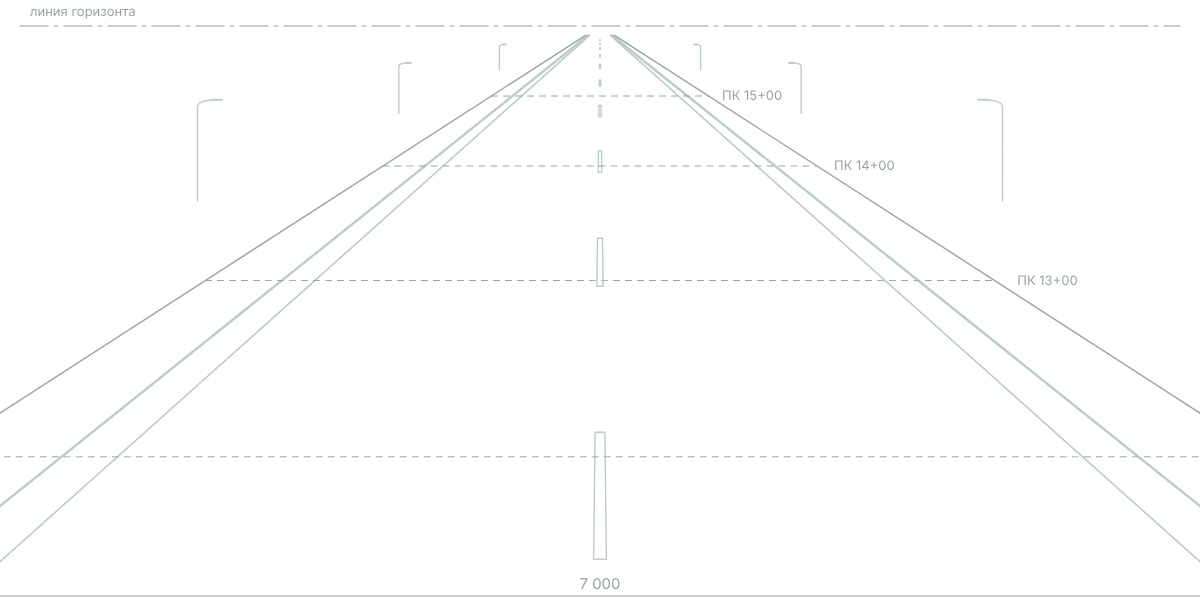
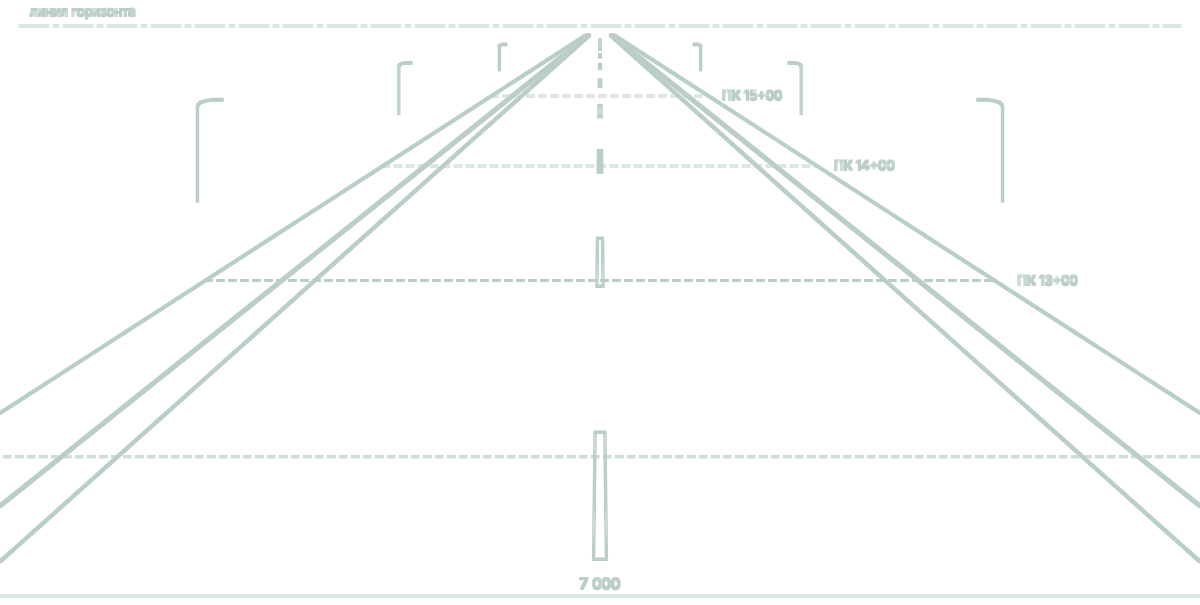
Асфальт: фон ярче и чётче
Claude-Session: https://claude.ai/code/session_01482EFEJNV4dMhKhPG7opTp

diff --git a/calc.html b/calc.html
@@ -15,12 +15,12 @@
 <link rel="icon" href="/favicon.svg" type="image/svg+xml">
 <link rel="alternate icon" href="/favicon.ico" sizes="32x32">
 <link rel="apple-touch-icon" href="/apple-touch-icon.png">
-<link rel="stylesheet" href="assets/masks.css?v=1119b">
-<link rel="stylesheet" href="assets/style.css?v=1119b">
-<script src="assets/calc-data.js?v=1119b"></script>
-<script src="assets/calc-icons.js?v=1119b"></script>
-<script src="assets/app.js?v=1119b" defer></script>
-<script src="assets/calc.js?v=1119b" defer></script>
+<link rel="stylesheet" href="assets/masks.css?v=1119c">
+<link rel="stylesheet" href="assets/style.css?v=1119c">
+<script src="assets/calc-data.js?v=1119c"></script>
+<script src="assets/calc-icons.js?v=1119c"></script>
+<script src="assets/app.js?v=1119c" defer></script>
+<script src="assets/calc.js?v=1119c" defer></script>
 </head>
 <body>
 <div class="page">

diff --git a/dorogi.html b/dorogi.html
@@ -17,9 +17,9 @@
 <link rel="icon" href="/favicon.svg" type="image/svg+xml">
 <link rel="alternate icon" href="/favicon.ico" sizes="32x32">
 <link rel="apple-touch-icon" href="/apple-touch-icon.png">
-<link rel="stylesheet" href="assets/masks.css?v=1119b">
-<link rel="stylesheet" href="assets/style.css?v=1119b">
-<script src="assets/app.js?v=1119b" defer></script>
+<link rel="stylesheet" href="assets/masks.css?v=1119c">
+<link rel="stylesheet" href="assets/style.css?v=1119c">
+<script src="assets/app.js?v=1119c" defer></script>
 <style>
 .d-hero-ph{margin-top:clamp(28px,4vw,44px);border:1px solid var(--line);aspect-ratio:16/7;overflow:hidden;background:var(--surface)}
 .d-hero-ph img{width:100%;height:100%;object-fit:cover;display:block}

diff --git a/assets/app.js b/assets/app.js
@@ -27,8 +27,8 @@
       {f:'vertik-sterzhni',s:'left:6vw;top:98vh;width:20vw',   o:.6, d:'-6s'}
     ],
     dorogi:[
-      {f:'doroga-perspektiva', s:'right:-4vw;top:14vh;width:46vw',  o:.9, d:'-2s', p:1},
-      {f:'dorozhnaya-odezhda', s:'left:-6vw;top:118vh;width:34vw', o:.5, d:'-14s',p:0}
+      {f:'doroga-perspektiva', s:'right:-4vw;top:12vh;width:48vw',  o:1, d:'-2s', p:1},
+      {f:'dorozhnaya-odezhda', s:'left:-6vw;top:118vh;width:36vw', o:.75, d:'-14s',p:0}
     ],
     prom:[
       {f:'razrez-dd',      s:'right:-5vw;top:1vh;width:38vw',  o:.78,d:'-2s', p:1},

diff --git a/group.html b/group.html
@@ -17,9 +17,9 @@
 <link rel="icon" href="/favicon.svg" type="image/svg+xml">
 <link rel="alternate icon" href="/favicon.ico" sizes="32x32">
 <link rel="apple-touch-icon" href="/apple-touch-icon.png">
-<link rel="stylesheet" href="assets/masks.css?v=1119b">
-<link rel="stylesheet" href="assets/style.css?v=1119b">
-<script src="assets/app.js?v=1119b" defer></script>
+<link rel="stylesheet" href="assets/masks.css?v=1119c">
+<link rel="stylesheet" href="assets/style.css?v=1119c">
+<script src="assets/app.js?v=1119c" defer></script>
 </head>
 <body>
 <div class="page">

diff --git a/index.html b/index.html
@@ -18,9 +18,9 @@
 <link rel="icon" href="/favicon.svg" type="image/svg+xml">
 <link rel="alternate icon" href="/favicon.ico" sizes="32x32">
 <link rel="apple-touch-icon" href="/apple-touch-icon.png">
-<link rel="stylesheet" href="assets/masks.css?v=1119b">
-<link rel="stylesheet" href="assets/style.css?v=1119b">
-<script src="assets/app.js?v=1119b" defer></script>
+<link rel="stylesheet" href="assets/masks.css?v=1119c">
+<link rel="stylesheet" href="assets/style.css?v=1119c">
+<script src="assets/app.js?v=1119c" defer></script>
 </head>
 <body>
 <div class="page">

diff --git a/jobs.html b/jobs.html
@@ -17,9 +17,9 @@
 <link rel="icon" href="/favicon.svg" type="image/svg+xml">
 <link rel="alternate icon" href="/favicon.ico" sizes="32x32">
 <link rel="apple-touch-icon" href="/apple-touch-icon.png">
-<link rel="stylesheet" href="assets/masks.css?v=1119b">
-<link rel="stylesheet" href="assets/style.css?v=1119b">
-<script src="assets/app.js?v=1119b" defer></script>
+<link rel="stylesheet" href="assets/masks.css?v=1119c">
+<link rel="stylesheet" href="assets/style.css?v=1119c">
+<script src="assets/app.js?v=1119c" defer></script>
 </head>
 <body>
 <div class="page">

diff --git a/objects.html b/objects.html
@@ -17,9 +17,9 @@
 <link rel="icon" href="/favicon.svg" type="image/svg+xml">
 <link rel="alternate icon" href="/favicon.ico" sizes="32x32">
 <link rel="apple-touch-icon" href="/apple-touch-icon.png">
-<link rel="stylesheet" href="assets/masks.css?v=1119b">
-<link rel="stylesheet" href="assets/style.css?v=1119b">
-<script src="assets/app.js?v=1119b" defer></script>
+<link rel="stylesheet" href="assets/masks.css?v=1119c">
+<link rel="stylesheet" href="assets/style.css?v=1119c">
+<script src="assets/app.js?v=1119c" defer></script>
 </head>
 <body>
 <div class="page">

diff --git a/prom.html b/prom.html
@@ -17,9 +17,9 @@
 <link rel="icon" href="/favicon.svg" type="image/svg+xml">
 <link rel="alternate icon" href="/favicon.ico" sizes="32x32">
 <link rel="apple-touch-icon" href="/apple-touch-icon.png">
-<link rel="stylesheet" href="assets/masks.css?v=1119b">
-<link rel="stylesheet" href="assets/style.css?v=1119b">
-<script src="assets/app.js?v=1119b" defer></script>
+<link rel="stylesheet" href="assets/masks.css?v=1119c">
+<link rel="stylesheet" href="assets/style.css?v=1119c">
+<script src="assets/app.js?v=1119c" defer></script>
 </head>
 <body>
 <div class="page">
